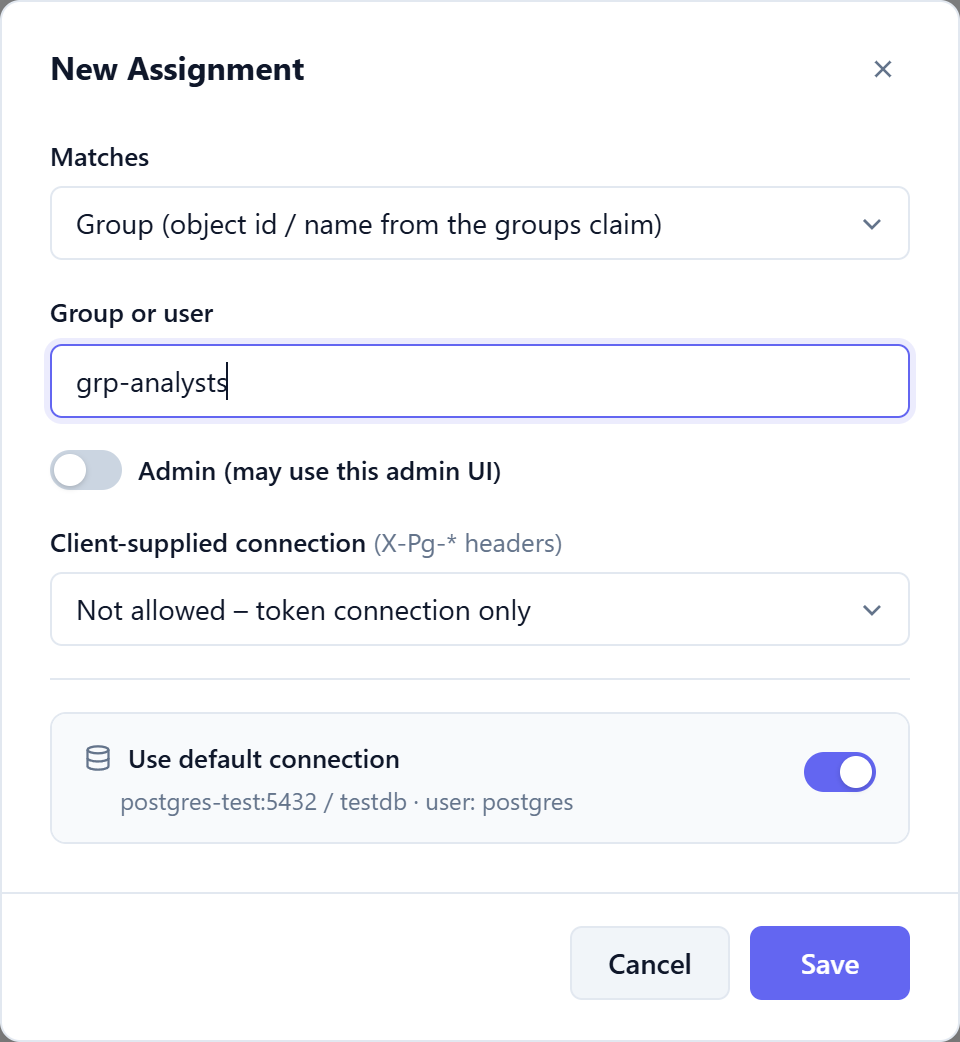
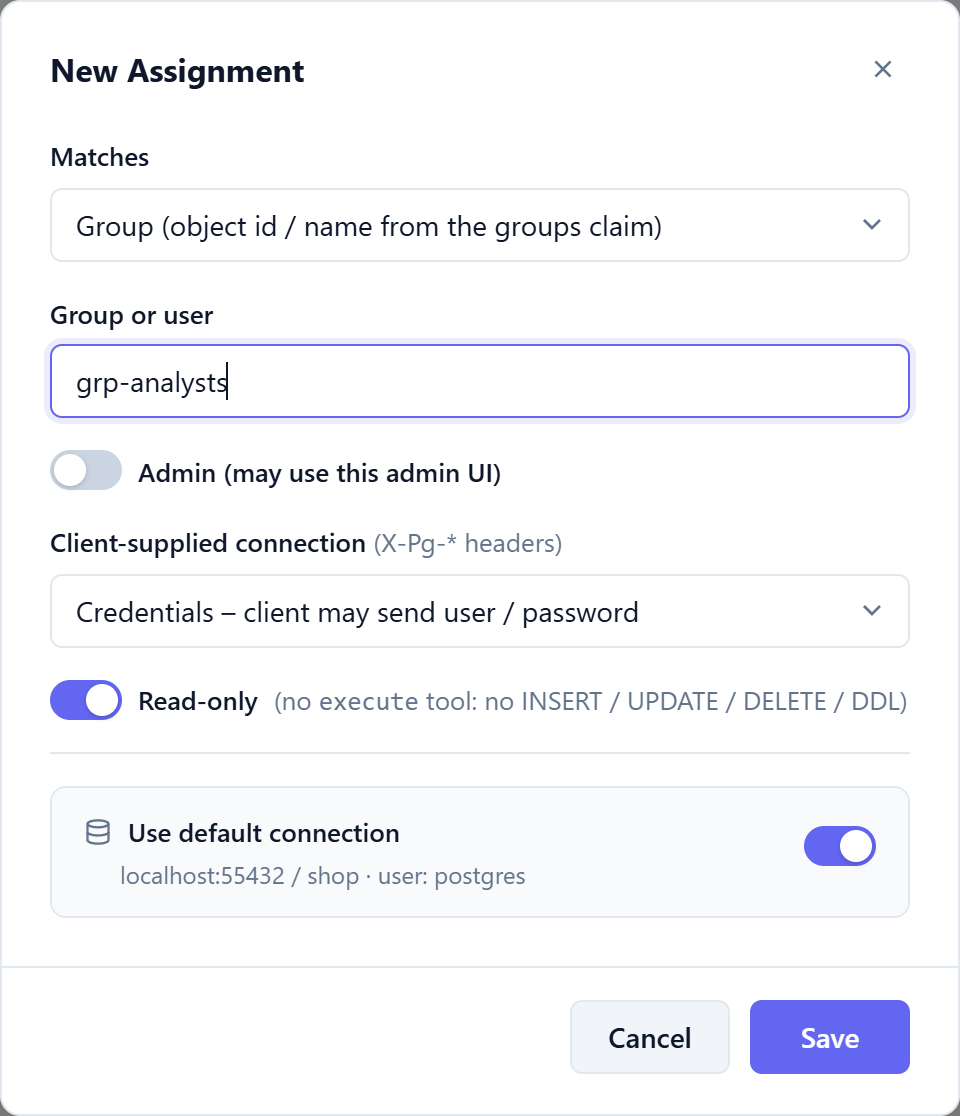
feat(admin): read-only toggle in the admin UI, OpenAPI and screenshots
Read-only switch in the token and assignment forms with a marker in the
lists; read_only documented in openapi.json; screenshots regenerated from the
running UI.

diff --git a/src/admin.html b/src/admin.html
@@ -930,7 +930,7 @@ function renderTokens() {
       <td class="col-status">
         <span class="badge ${t.active ? 'badge-on' : 'badge-off'}">${t.active ? 'Active' : 'Inactive'}</span>
       </td>
-      <td class="col-conn hide-sm">${renderConn(t.connection)}${renderClientConn(t.client_connection)}</td>
+      <td class="col-conn hide-sm">${renderConn(t.connection)}${renderClientConn(t.client_connection)}${renderReadOnly(t.read_only)}</td>
       <td class="col-date hide-sm"><span class="date-text">${fmtDate(t.created_at)}</span></td>
       <td class="col-date hide-sm">${t.last_used_at
         ? `<span class="date-text">${fmtDate(t.last_used_at)}</span>`
@@ -992,7 +992,7 @@ async function submitCreate() {
   btn.disabled = true; btn.textContent = 'Creating…';
 
   try {
-    const created = await api('POST', '/admin/tokens', { name, connection: conn, client_connection: readClientConn() });
+    const created = await api('POST', '/admin/tokens', { name, connection: conn, client_connection: readClientConn(), read_only: readReadOnly() });
     state.tokens.unshift({ ...created });
     renderTokens();
     showTokenReveal(created);
@@ -1058,9 +1058,9 @@ async function submitEdit(id) {
 
   try {
     const updated = await api('PATCH', `/admin/tokens/${id}`,
-      { name, active, connection: conn, client_connection: readClientConn() });
+      { name, active, connection: conn, client_connection: readClientConn(), read_only: readReadOnly() });
     const idx = state.tokens.findIndex(t => t.id === id);
-    if (idx >= 0) Object.assign(state.tokens[idx], updated);
+    if (idx >= 0) { Object.assign(state.tokens[idx], updated); state.tokens[idx].read_only = !!updated.read_only; }
     renderTokens();
     closeModal();
   } catch (e) {
@@ -1137,7 +1137,7 @@ function renderAssignments() {
     <tr>
       <td class="col-name">${assignmentSubject(a)}</td>
       <td class="col-status">${a.admin ? 'admin' : 'user'}</td>
-      <td class="col-conn hide-sm">${renderConn(a.connection)}${renderClientConn(a.client_connection)}</td>
+      <td class="col-conn hide-sm">${renderConn(a.connection)}${renderClientConn(a.client_connection)}${renderReadOnly(a.read_only)}</td>
       <td class="col-date hide-sm">${x(a.source === 'env' ? 'environment' : 'admin UI')}</td>
       <td class="col-actions">${assignmentActions(a)}</td>
     </tr>`).join('')
@@ -1173,6 +1173,7 @@ function assignmentForm(a) {
       <label for="f-clientconn">Client-supplied connection <span style="font-weight:400;color:var(--text-muted)">(X-Pg-* headers)</span></label>
       <select id="f-clientconn">${clientConnOptions(a && a.client_connection)}</select>
     </div>
+    ${readOnlyField(a)}
     ${connSection(a)}`;
 }
 
@@ -1187,7 +1188,7 @@ function openAssignModal(id) {
 async function submitAssign(id) {
   const subject = document.getElementById('f-subject').value.trim();
   if (id === null && !subject) { flashInput(document.getElementById('f-subject'), 'Group or user is required'); return; }
-  const body = { admin: document.getElementById('f-admin').checked, connection: readConn(), client_connection: readClientConn() };
+  const body = { admin: document.getElementById('f-admin').checked, connection: readConn(), client_connection: readClientConn(), read_only: readReadOnly() };
   if (id === null) body[document.getElementById('f-kind').value] = subject;
   const btn = document.getElementById('modal-primary');
   btn.disabled = true;
@@ -1258,6 +1259,8 @@ function buildForm(t) {
         <span style="font-weight:400;color:var(--text-muted)">(X-Pg-* headers)</span></label>
       <select id="f-clientconn">${clientConnOptions(t && t.client_connection)}</select>
     </div>
+
+    ${readOnlyField(t)}
 
     ${connSection(t)}`;
 }
@@ -1355,6 +1358,29 @@ function clientConnOptions(value) {
 
 function readClientConn() {
   return document.getElementById('f-clientconn').value;
+}
+
+/** "Read-only" toggle (tokens and assignments): disables the execute tool for the session. */
+function readOnlyField(e) {
+  return `
+    <div class="field">
+      <label style="display:flex;align-items:center;gap:.5rem;cursor:pointer">
+        <label class="toggle" style="margin:0">
+          <input type="checkbox" id="f-readonly" ${e && e.read_only ? 'checked' : ''}>
+          <span class="toggle-track"></span><span class="toggle-thumb"></span>
+        </label>
+        Read-only <span style="font-weight:400;color:var(--text-muted)">(no <code>execute</code> tool: no INSERT / UPDATE / DELETE / DDL)</span>
+      </label>
+    </div>`;
+}
+
+function readReadOnly() {
+  return document.getElementById('f-readonly').checked;
+}
+
+/** Marker below the connection of read-only tokens / assignments. */
+function renderReadOnly(flag) {
+  return flag ? '<div class="client-conn" title="The execute tool is disabled">read-only</div>' : '';
 }
 
 // The API never returns passwords: an empty field is left out, which keeps the stored password (PATCH)
